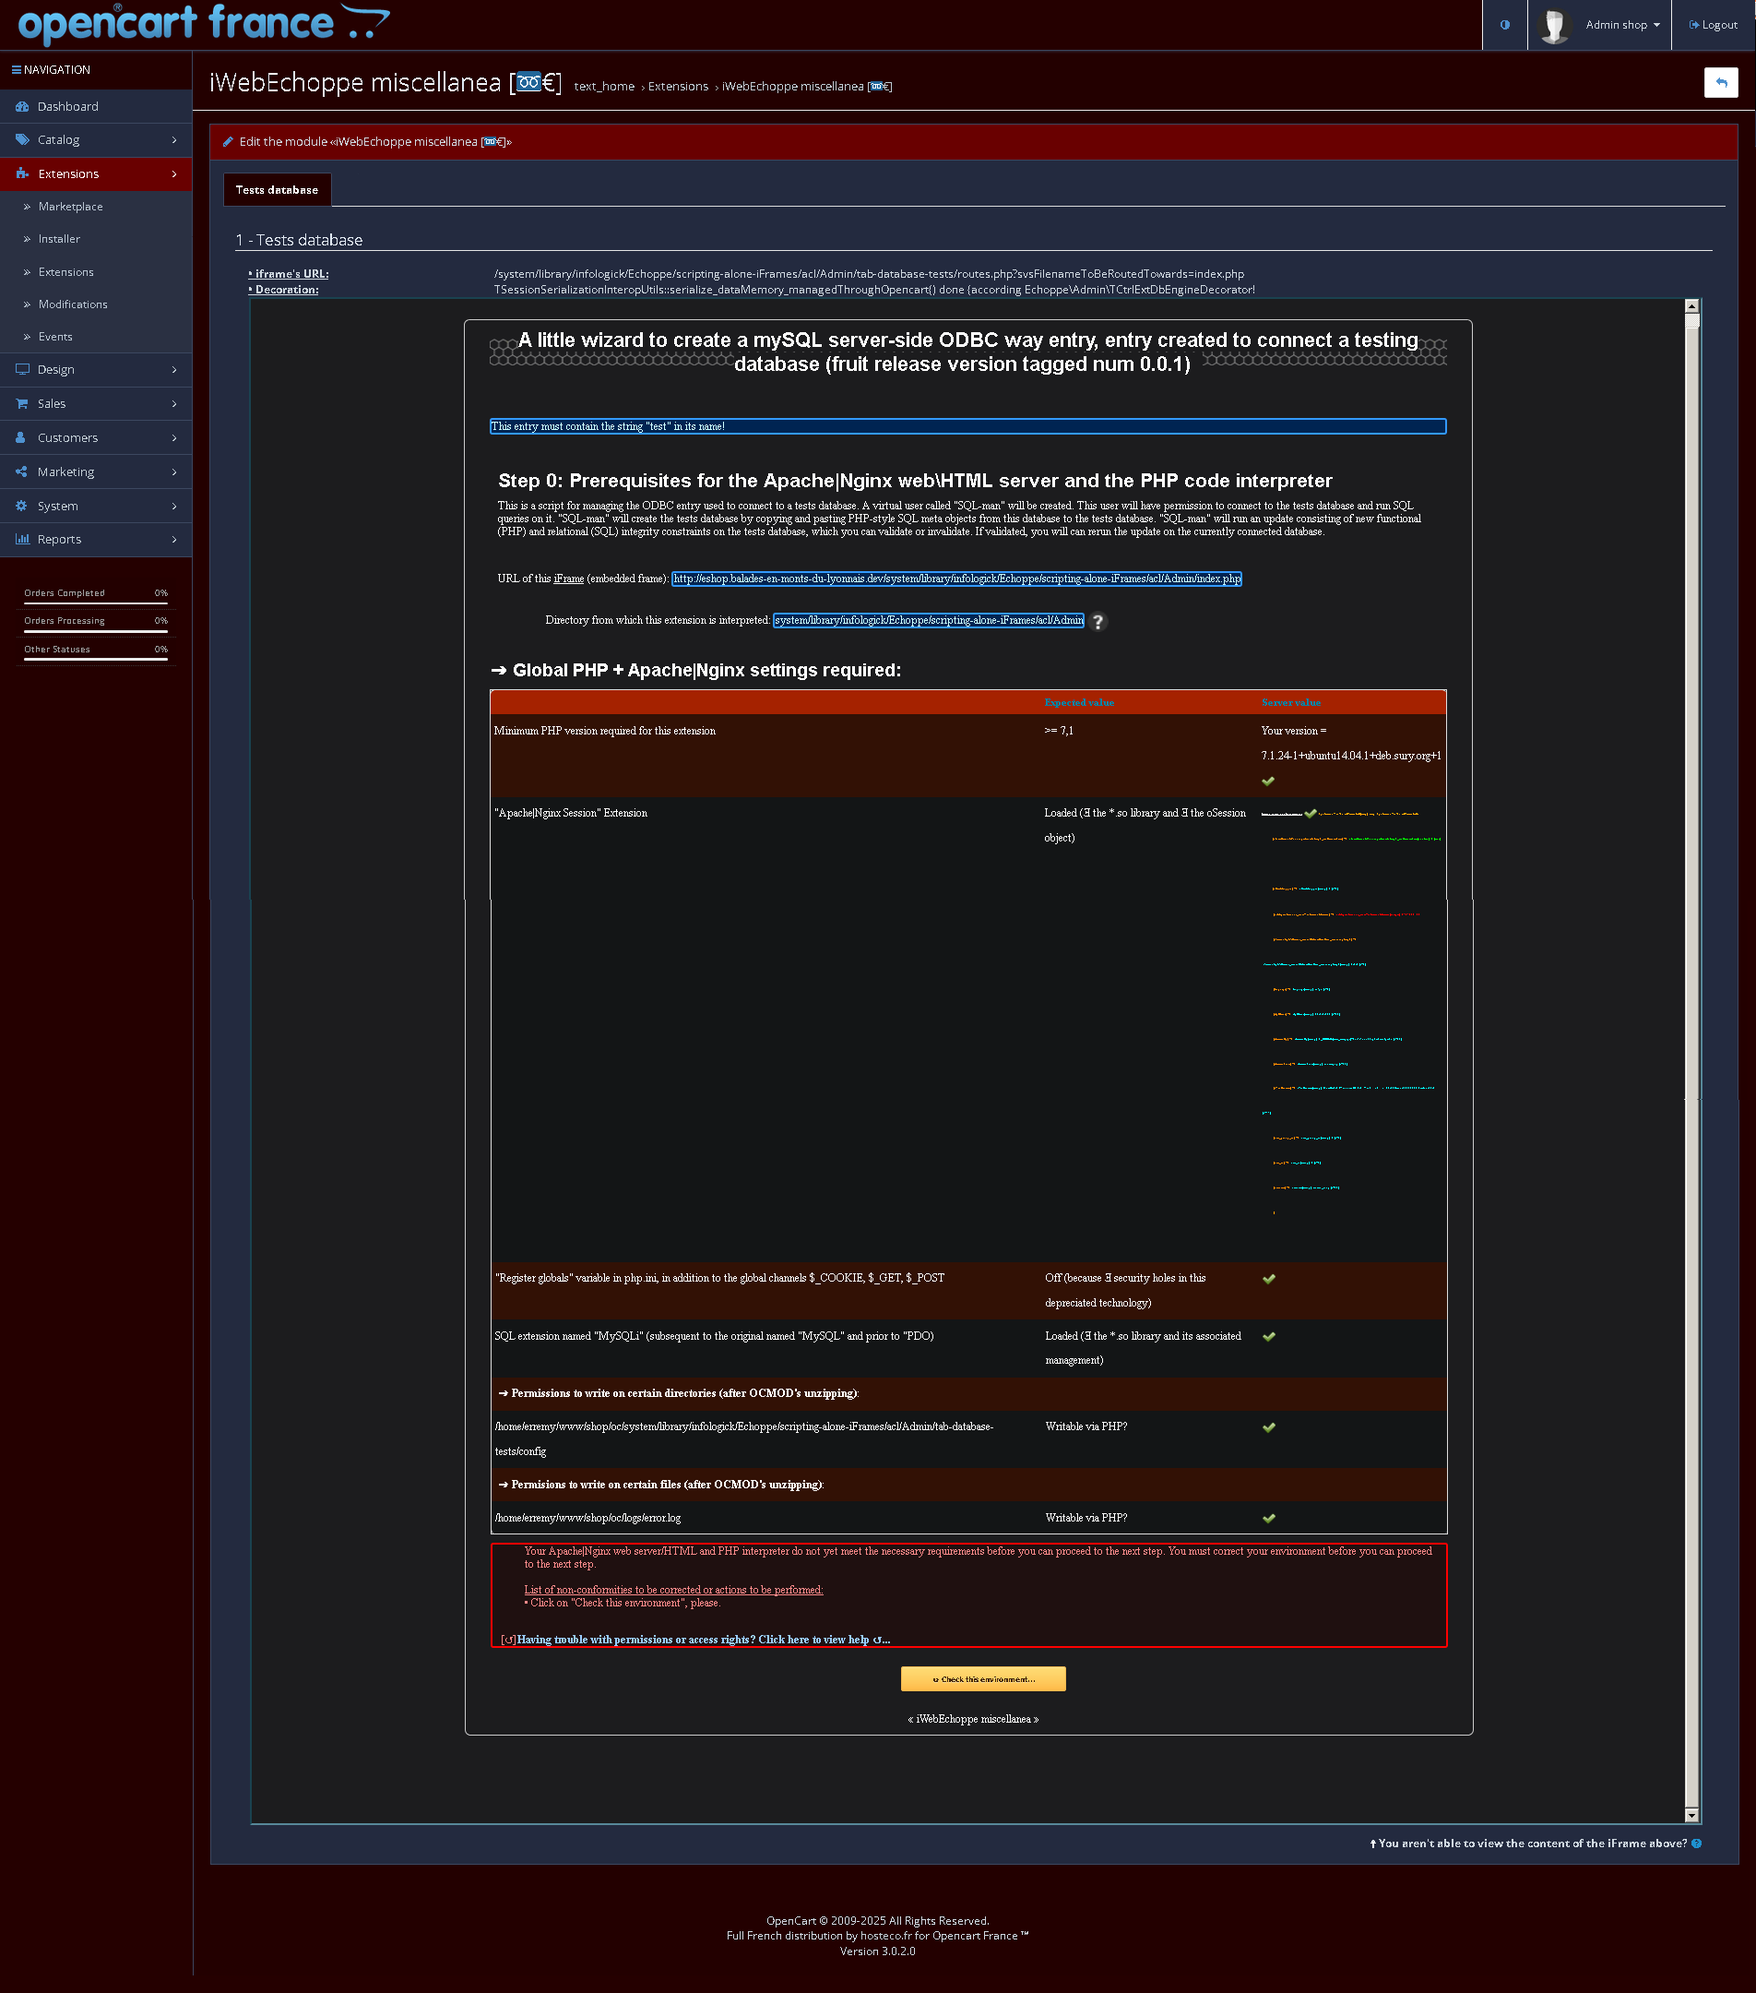
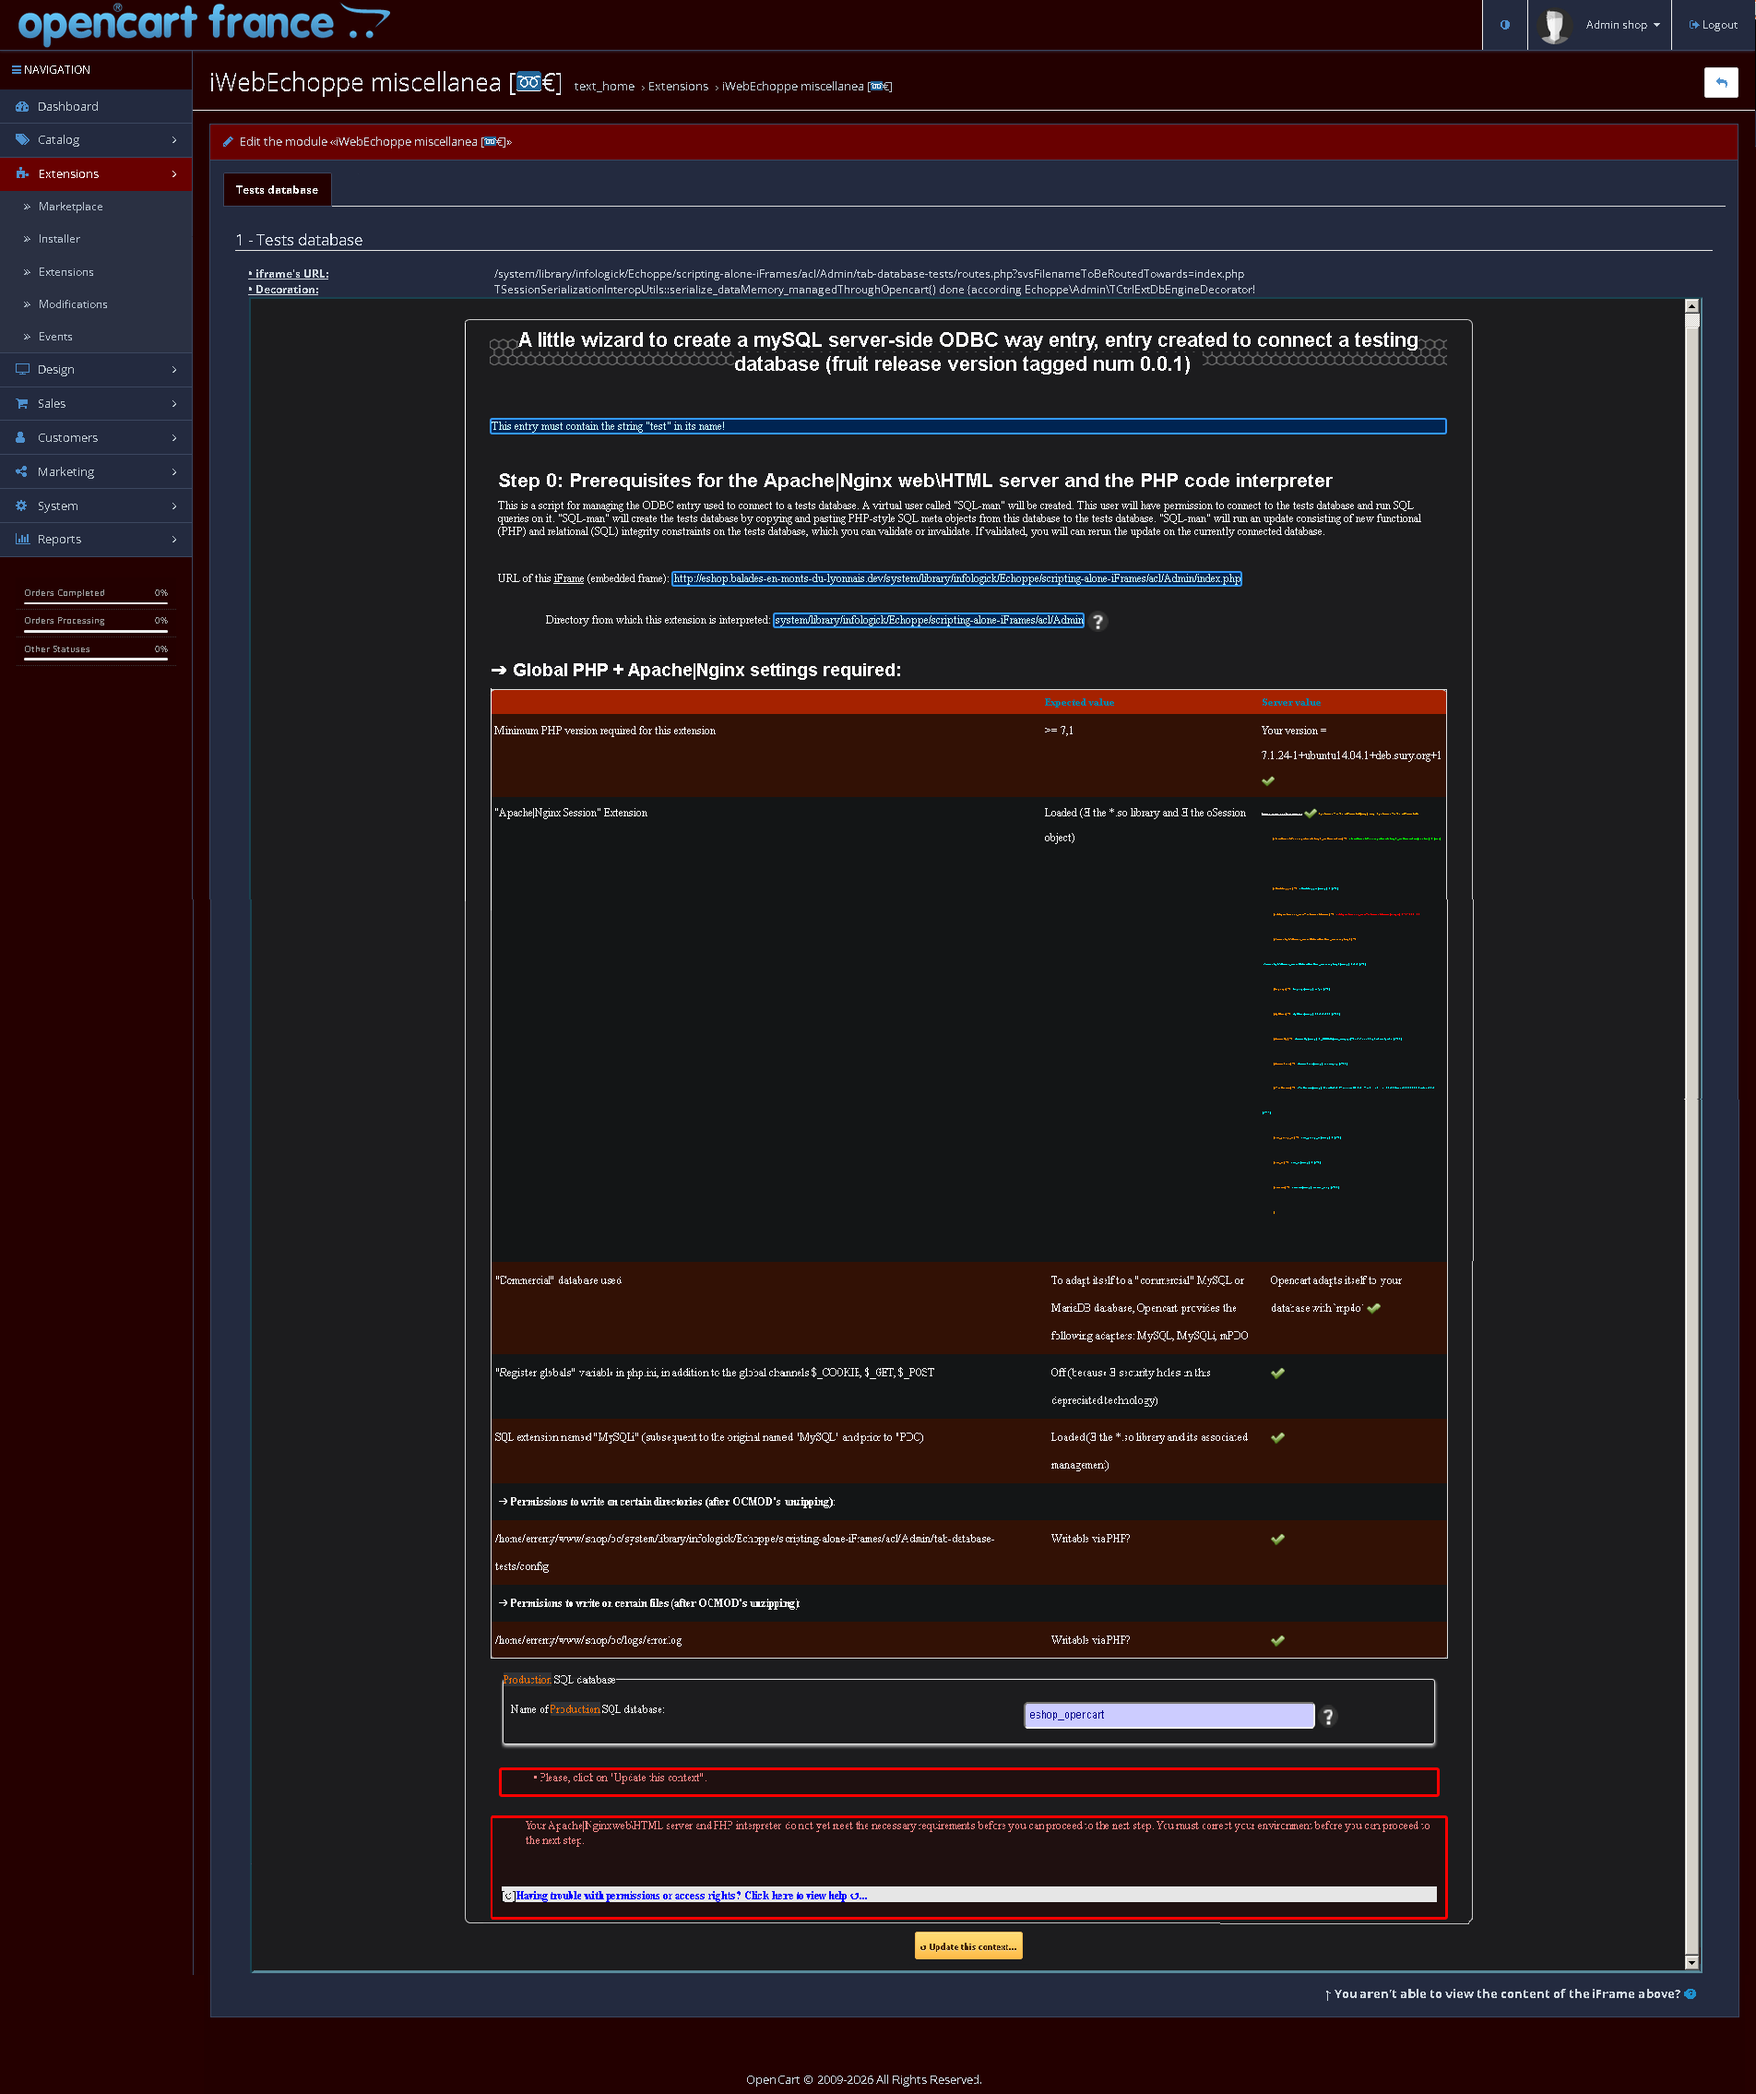
modif: en vrac
Changement de jargon (module → onglet). Ajout de tests dans l'index (étape 0): présence extensions mySQLi et mPDO, et information que la base de production = celle lors de l'installation d'Opencart (enregistrée dans */shop/oc/admin), FORCÉMENT.

Changed region(s): [[0.0, 0.0, 0.9916, 0.4032], [0.093, 0.5894, 0.9916, 1.0], [0.0, 0.1551, 0.1239, 0.3412]]

diff --git a/docs/index.htm b/docs/index.htm
@@ -33,7 +33,7 @@
 		<nav style="background-color: dimgray;"><!-- DÉBUT navigateur -->
 			<div style="text-align: center; margin: 0 auto;">
 				<a href="./index.htm">⟳ Page d'accueil de l'extension « iWebEchoppe miscellanea »</a>
-				<a href="./01-tests-base/index.htm">→ Index du module « Base des tests »</a>
+				<a href="./01-tests-base/index.htm">→ Index de l'onglet « Base des tests »</a>
 			</div>
 		</nav><!-- FIN navigateur -->
 
@@ -43,7 +43,7 @@
 
 &nbsp;&nbsp;&nbsp;&nbsp;&nbsp;Cette extension « iWebEchoppe miscellanea » est une extension de fonctionalités de « Opencart ». Opencart est une solution de commerce électronique.<br>
 Cette extension est livrée avec les localisations linguistiques corrspondantes aux codes "en-gb" et "fr-fr".<br>
-Cette extension se divise elle-même en un sous-module nommée « Base des tests ».<br><br>
+Cette extension se divise elle-même en un sous-onglet nommée « Base des tests ».<br><br>
 
 
 <br><br><br>
@@ -54,13 +54,20 @@ L'éditeur de cette extension est la société « Infologick ».<br>
 
 
 <br><br><br>
-<h3>Recommandations</h3>
+<h3>Recommandations et pré-requis</h3>
 <label id="RECOMMANDATION_BEFORE_INSTALLATION">&nbsp;</label>
 • faire une copie de sauvegarde du votre code source et de la base de données associée à votre version d'Opencart où vous voulez installer cette extension et ce, 
 au moyen des extensions commerciales ou libres qui sont dévolues à ces tâches dans Opencart. 
 A minima, <span class="stabilo_jaune">sauvegardez par un copié-collé manuel votre dossier où est installé Opencart sur votre serveur Web puis exportez votre base de données liée à Opencart depuis un outil comme PhpMyAdmin.</span><br>
 • depuis la panneau d'administration dans Opencart, lancez le téléchargement de cette extension «iWebEchoppe miscellanea» (iWebEchoppe.ocmod.zip) puis 
-cliquez sur le bouton pour l'y installer dedans en suivant les instructions jusqu'au bout.<br>
+cliquez sur le bouton pour l'y installer dedans en suivant les instructions jusqu'au bout.
+<br><br>
+<u>Pré-requis pout tous les onglets de cette extension:</u><br>
+&bull;&nbsp;un Opencart installé et fonctionnel: la <span class="stabilo_orange">base installée</span> est considérée par cette extension comme étant, obligatoirement, considérée comme étant celle de <span class="stabilo_orange">Production</span>.<br>
+&bull;&nbsp;la base de données installée doit être "commercialement" nommée "mySQL" ou "mariaDb" (si votre base est "MS-SQL server" ou "PostgreSSL, etc, alors cette extension ne pourra pas fonctionner et encore moins être mise à jour).<br>
+&bull;&nbsp;l'extension PHP nommée "MySQLi" (subséquente à l'originelle nommée "MySQL" mais antérieur à "PDO" pour mySQL): c'est avec elle que se font les mises à jour de cette extension.<br>
+&bull;&nbsp;l'extension PHP nommée "mPDO": c'est avec elle que cette extension fait tout (les requêtes CRUD, hors mise à jour de la base de données, donc).<br>
+&bull;&nbsp;dit autrement, il faut les extension PHP nommée "MySQLi" et nommé "PDO".<br>
 <br>
 
 

diff --git a/docs/01-tests-base/step1.htm b/docs/01-tests-base/step1.htm
@@ -2,8 +2,8 @@
 <html lang="fr">
 <head>
 	<meta content="text/html; charset=UTF-8" http-equiv="content-type">
-	<title>extension «iWebEchoppe miscellanea» pour Opencart: étape 1 de son module «Base des tests»</title>
-	<meta name="description" content="module «Base des tests» de l'extension «iWebEchoppe miscellanea»">
+	<title>extension «iWebEchoppe miscellanea» pour Opencart: étape 1 de son onglet «Base des tests»</title>
+	<meta name="description" content="onglet «Base des tests» de l'extension «iWebEchoppe miscellanea»">
 	<meta name="viewport" content=" width=device-width, initial-scale=1, minimum-scale=1, maximum-scale=1 "/>
 	<meta http-equiv="Content-Language" content="fr" />
 	<!-- NO 'BOTS \ bon, c'est tjrs en création -->
@@ -33,8 +33,8 @@
 		<nav style="background-color: dimgray;"><!-- DÉBUT navigateur -->
 			<div style="text-align: center; margin: 0 auto;">
 				<a href="./../index.htm">↑ Page d'accueil de l'extension « iWebEchoppe miscellanea »</a>
-				<a href="./index.htm">← Index du module « Base des tests »</a>
-				<a href="./step2.htm">→ Étape 2 du module « Base des tests »</a>
+				<a href="./index.htm">← Index de l'onglet « Base des tests »</a>
+				<a href="./step2.htm">→ Étape 2 de l'onglet « Base des tests »</a>
 			</div>
 		</nav><!-- FIN navigateur -->
 
@@ -65,7 +65,7 @@
 				<br><br><br>
 				<img src="./step1Files/step1_eventGET3.png" width="68%" /><br><br>
 				<img src="./step1Files/step1_eventGET4.png" width="68%" /><br>
-				<i>À l'étape 1 (méthode=GET), illustration ci-dessus de la présence d'un comparateur de variables, comparateur niché dans un contrôle visuel en forme de soufflets d'accordéon, comparateur qui permet de visualiser les différences entre les variables des fichiers de configuration existants, avec les variables d'une éventuelle nouvelle version de ce module.<br>
+				<i>À l'étape 1 (méthode=GET), illustration ci-dessus de la présence d'un comparateur de variables, comparateur niché dans un contrôle visuel en forme de soufflets d'accordéon, comparateur qui permet de visualiser les différences entre les variables des fichiers de configuration existants, avec les variables d'une éventuelle nouvelle version de cet onglet.<br>
 				Cette étape détecte diverses configurations et liste les incohérences et les modifications qui doivent être faites pour passer à l'étape numéro 2 suivante.</i>
 			</p>
 

diff --git a/docs/01-tests-base/index.htm b/docs/01-tests-base/index.htm
@@ -3,7 +3,7 @@
 <head>
 	<meta content="text/html; charset=UTF-8" http-equiv="content-type">
 	<title>extension «iWebEchoppe miscellanea» pour Opencart: étape 0 de son module «Base des tests»</title>
-	<meta name="description" content="module «Base des tests» de l'extension «iWebEchoppe miscellanea»">
+	<meta name="description" content="onglet «Base des tests» de l'extension «iWebEchoppe miscellanea»">
 	<meta name="viewport" content=" width=device-width, initial-scale=1, minimum-scale=1, maximum-scale=1 "/>
 	<meta http-equiv="Content-Language" content="fr" />
 	<!-- NO 'BOTS \ bon, c'est tjrs en création -->
@@ -32,7 +32,7 @@
 		<nav style="background-color: dimgray;"><!-- DÉBUT navigateur -->
 			<div style="text-align: center; margin: 0 auto;">
 				<a href="./../index.htm">↑ Page d'accueil de l'extension « iWebEchoppe miscellanea »</a>
-				<a href="./step1.htm">→ Étape 1 du module « Base des tests »</a>
+				<a href="./step1.htm">→ Étape 1 de l'onglet « Base des tests »</a>
 			</div>
 		</nav><!-- FIN navigateur -->
 
@@ -51,12 +51,12 @@
 			
 			<p align="center">
 				<img src="./indexFiles/000_index_eventGET1.png" width="68%" /><br>
-				<i>illustration de la page d'accueil du module «Base des tests».</i>
+				<i>illustration de la page d'accueil de l'onglet «Base des tests».</i>
 			</p>
 <br><br><br>
 			<p align="center">
 				<img src="./indexFiles/001_index_eventPOST1.png" width="68%" /><br>
-				<i>En pied de page, des notifications d'erreurs et d'informations s'affichent pour rendent compte de la conformité de votre environnement Opencart vis-à-vis des pré-requis nécessaires pour le module «Base des tests».</i>
+				<i>En pied de page, des notifications d'erreurs et d'informations s'affichent pour rendent compte de la conformité de votre environnement Opencart vis-à-vis des pré-requis nécessaires pour l'onglet «Base des tests».</i>
 			</p>
 <br><br><br>
 			<p align="center">
